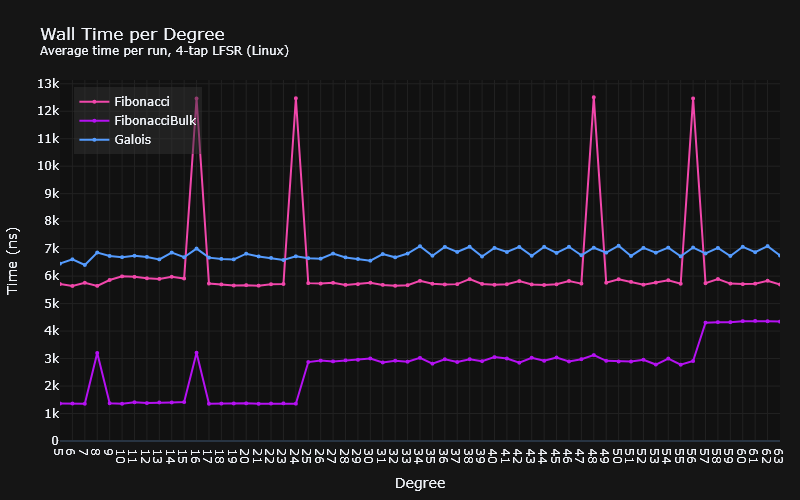
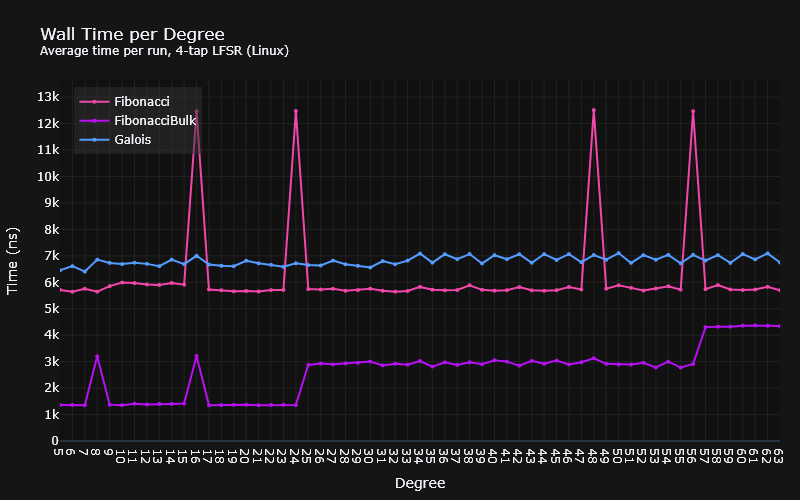
Use Same Y-Scale For Benchmark Graphs

diff --git a/plot.py b/plot.py
@@ -66,6 +66,7 @@ if __name__ == '__main__':
     parser.add_argument('--input-file', type=str, help='CSV file containing benchmark results')
     parser.add_argument('--write-image', action='store_true', help='Output file for the plot')
     parser.add_argument('--platform', type=str, required=True, help='Platform name')
+    parser.add_argument('--max-y', type=float, help='Maximum value for the y-axis')
     args = parser.parse_args()
 
     results = get_results(args.input_file)
@@ -83,7 +84,12 @@ if __name__ == '__main__':
 
     min_x = min(x_f)
     max_x = max(x_f)
+
+    
     max_y = max(max(y_f), max(y_bf), max(y_g))
+
+    if args.max_y:
+        max_y = args.max_y
 
     fig = go.Figure()
     fig.add_trace(go.Scatter(x=x_f,  y=y_f,  
